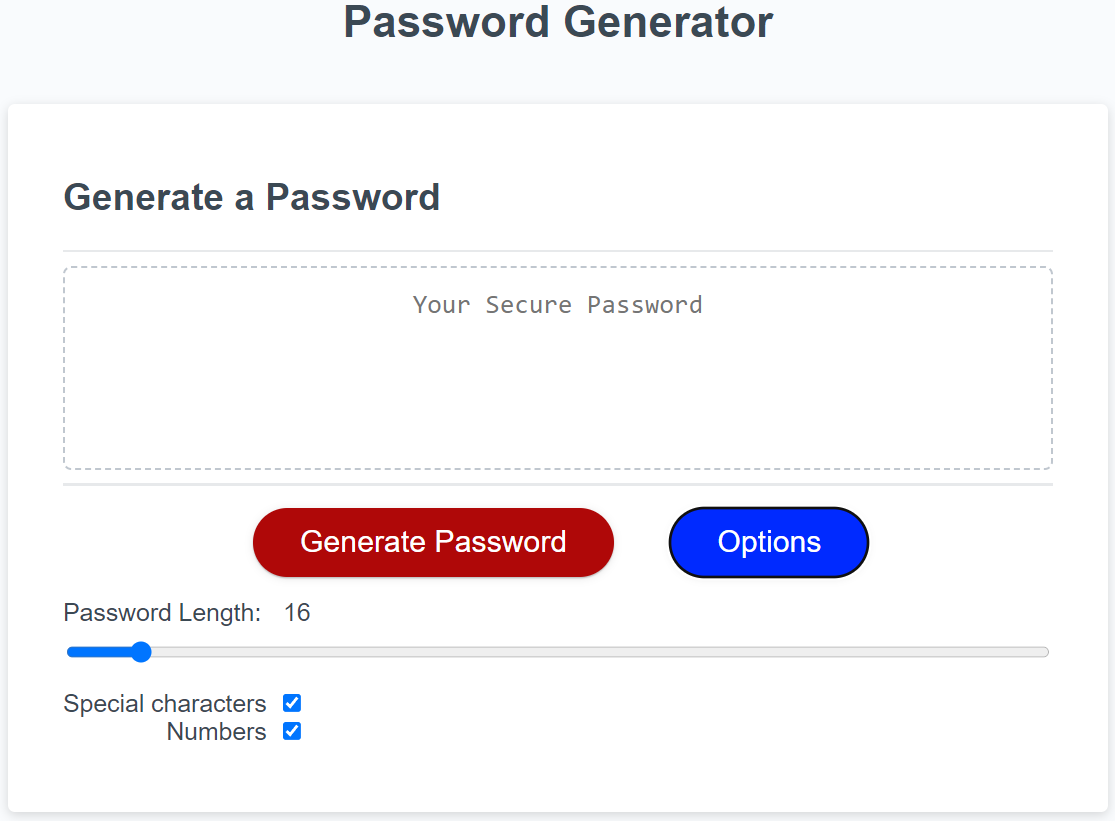
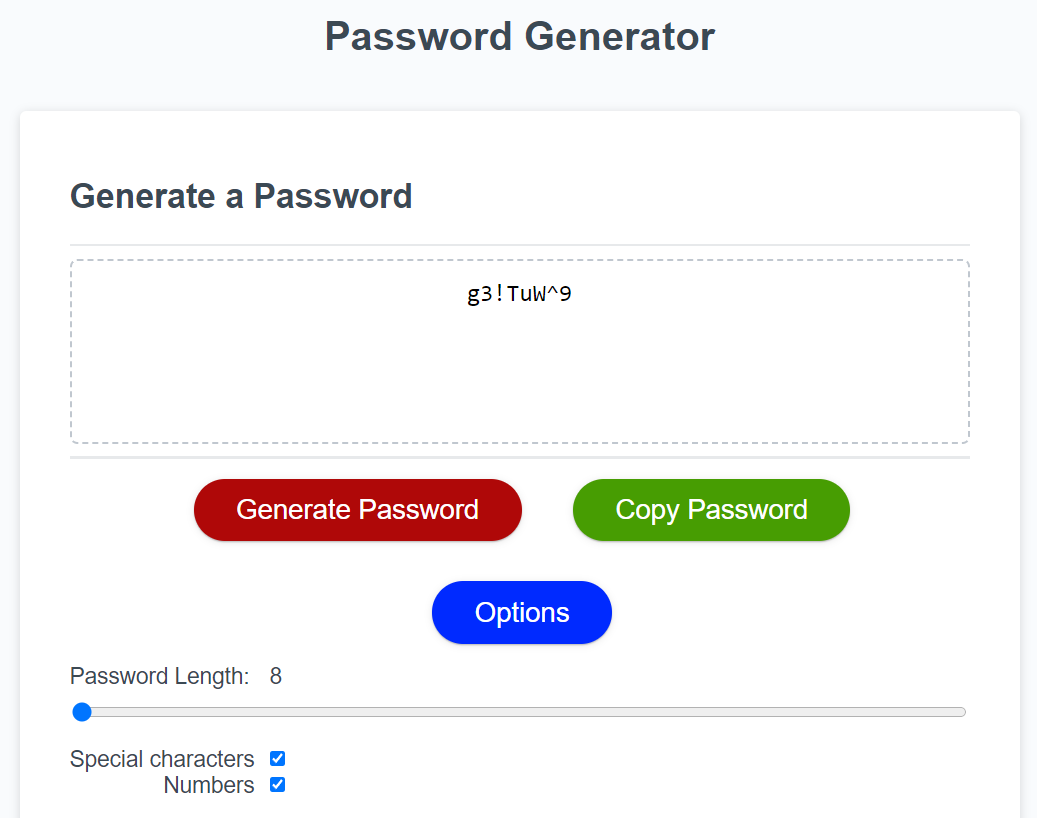
added button to copy password to clipboard

diff --git a/Assets/JavaScript/script.js b/Assets/JavaScript/script.js
@@ -207,8 +207,9 @@ function generatePassword() {
 
 //alert(`Password is: ${generatePassword().pass}\nPassword Length is: ${generatePassword().passLength}`);
 
-// Get references to the #generate and #options element
+// Get references to the #generate, #copy and #options element
 const generateBtn = document.querySelector('#generate');
+const copyBtn = document.querySelector('#copy');
 const optionsBtn = document.querySelector('#options');
 
 // Write password to the #password input
@@ -217,6 +218,14 @@ function writePassword() {
   const passwordText = document.querySelector('#password');
 
   passwordText.value = password;
+}
+
+// Copy password to clipboard
+function PassCopy(params) {
+  const passwordText = document.querySelector('#password');
+  navigator.clipboard.writeText(passwordText.value);
+  const copiedText = passwordText.value;
+  alert("Copied: " + copiedText);
 }
 
 // Toggle password options displaying on screen
@@ -229,4 +238,5 @@ function ToggPassOpt() {
 
 // Add event listener to generate button and options button
 generateBtn.addEventListener('click', writePassword);
+copyBtn.addEventListener('click', PassCopy);
 optionsBtn.addEventListener('click', ToggPassOpt);

diff --git a/index.html b/index.html
@@ -26,6 +26,7 @@
         </div>        
         <div class="card-footer">
           <button id="generate" class="btn">Generate Password</button>
+          <button id="copy" class="btn">Copy Password</button>
           <button id="options" class="btn">Options</button>
         </div>
         <form id="password-options" class="hidden">

diff --git a/Assets/CSS/style.css b/Assets/CSS/style.css
@@ -129,6 +129,10 @@ li {
   cursor: pointer;
 }
 
+#copy {
+  background-color: rgb(71, 157, 2);
+}
+
 #options {
   background-color: rgb(0, 42, 255);
 }
